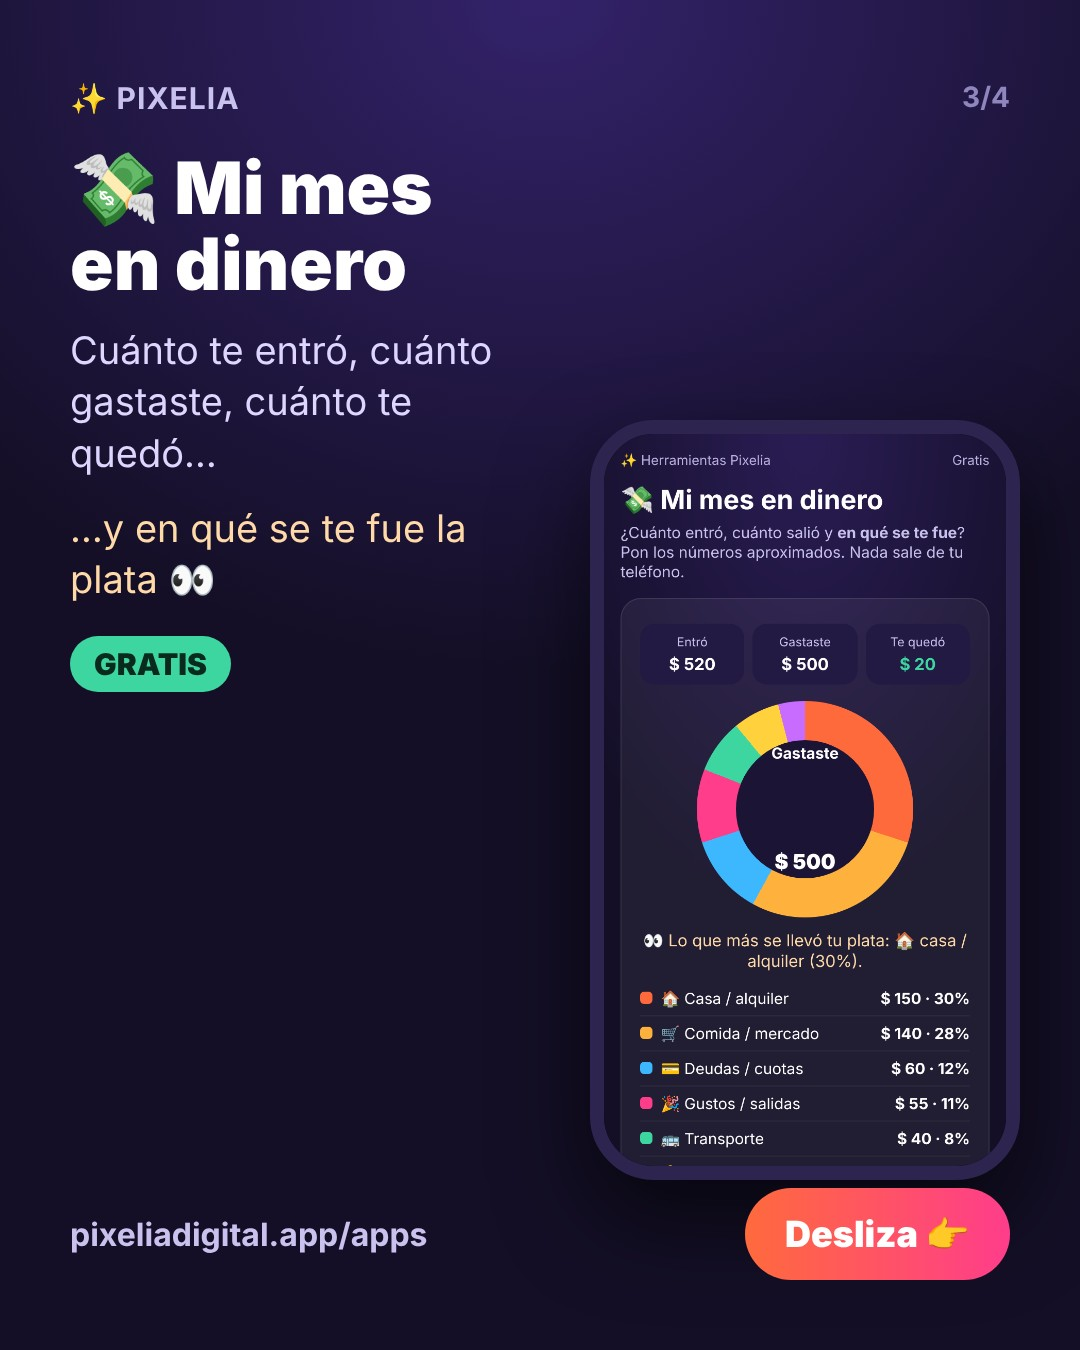
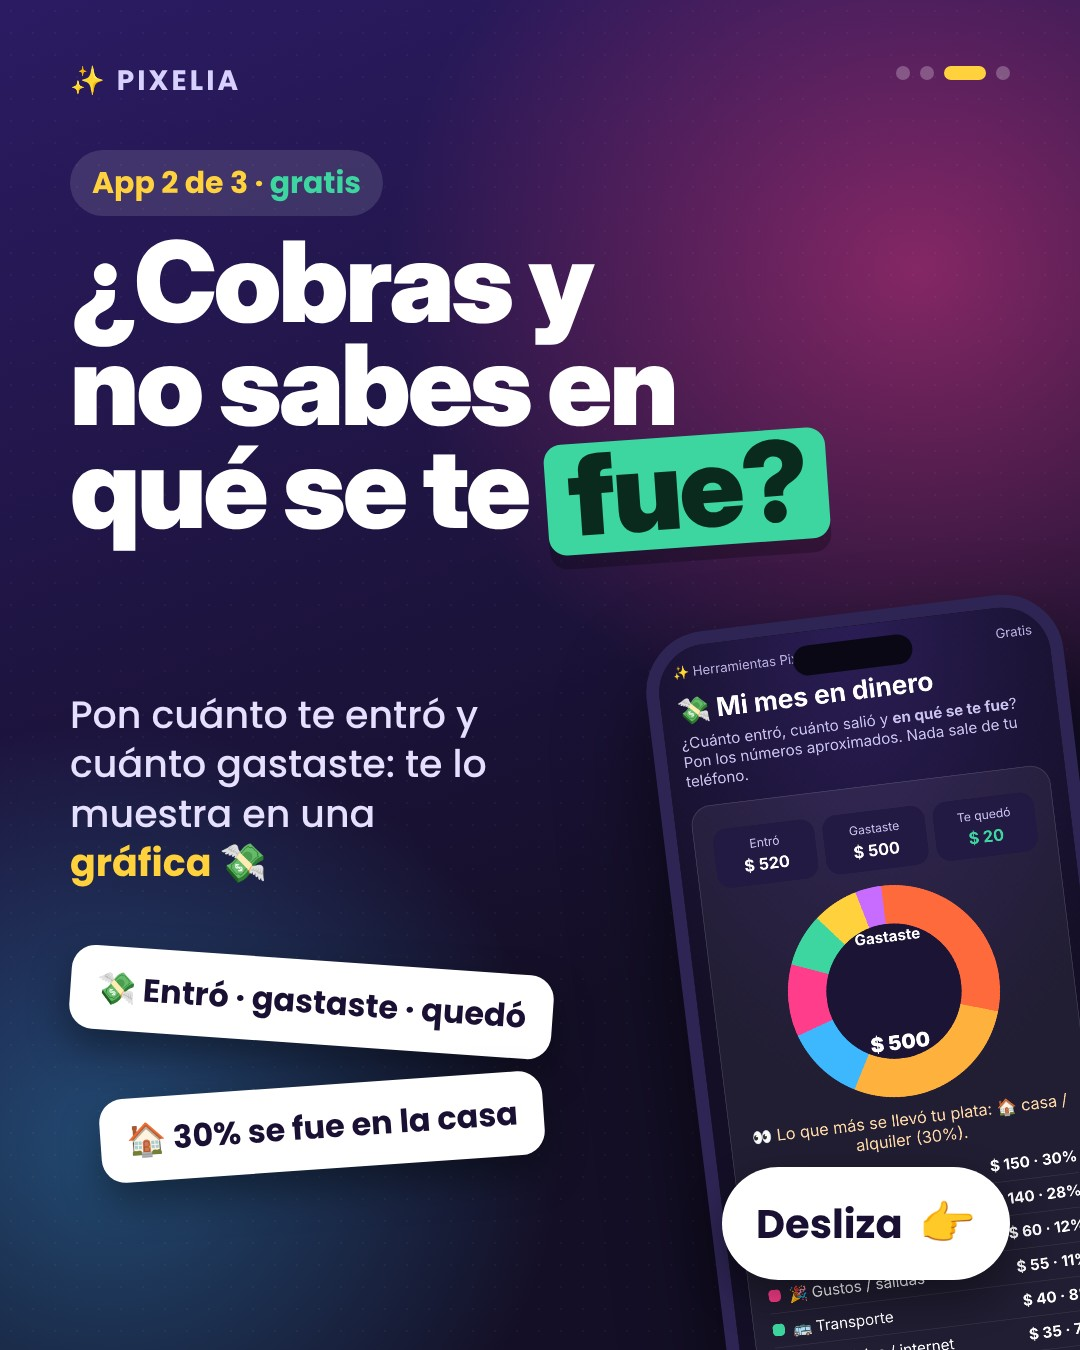
Carrusel v2 dinámico (portada sin nombres, teléfonos inclinados, etiquetas)
Claude-Session: https://claude.ai/code/session_01GXvD1qFKfigyGmicxfkwme

diff --git a/herramientas/apps/car.html b/herramientas/apps/car.html
@@ -1,57 +1,77 @@
 <!doctype html><html><head><meta charset="utf-8"><style>
-*{margin:0;box-sizing:border-box}body{font-family:'Inter',system-ui,sans-serif;background:#000}
-.s{width:1080px;height:1350px;position:relative;overflow:hidden;color:#fff;background:radial-gradient(120% 80% at 50% 0%,#33226a 0%,#140f26 62%);padding:80px 70px}
-.brand{font-size:30px;color:#c9c2ee;font-weight:700;letter-spacing:1px}
-.n{position:absolute;top:80px;right:70px;font-size:28px;color:#8f86bd;font-weight:700}
-h1{font-size:92px;line-height:1.02;font-weight:900;margin-top:40px}
-h2{font-size:72px;line-height:1.05;font-weight:900;margin-top:34px}
-.o{color:#ff7a4d}
-p.t{font-size:38px;line-height:1.35;color:#ddd6ff;margin-top:24px;max-width:900px}
-.tiles{display:flex;gap:30px;margin-top:70px}
-.tile{flex:1;background:rgba(255,255,255,.07);border:2px solid rgba(255,255,255,.12);border-radius:40px;padding:40px 20px;text-align:center}
-.tile .i{width:150px;height:150px;border-radius:42px;margin:0 auto 22px;display:grid;place-items:center;font-size:84px}
-.tile b{font-size:34px;line-height:1.15;display:block}
-.bot{position:absolute;left:70px;right:70px;bottom:70px;display:flex;justify-content:space-between;align-items:center}
-.pill{background:linear-gradient(90deg,#ff6a3d,#ff3d8b);border-radius:999px;padding:24px 40px;font-size:36px;font-weight:900}
-.url{font-size:32px;color:#c9c2ee;font-weight:700}
-.phone{position:absolute;right:60px;bottom:170px;width:430px;height:760px;border-radius:64px;background:#0b0816;border:14px solid #2d2450;box-shadow:0 40px 90px rgba(0,0,0,.6);overflow:hidden}
+@font-face{font-family:Poppins;font-weight:500;src:url(file:///home/claude/tienda/estudio/fonts/Poppins-Medium.ttf)}
+@font-face{font-family:Poppins;font-weight:600 900;src:url(file:///home/claude/tienda/estudio/fonts/Poppins-Bold.ttf)}
+
+*{margin:0;box-sizing:border-box}
+body{background:#000;font-family:'Inter Display','Inter',sans-serif}
+.s{width:1080px;height:1350px;position:relative;overflow:hidden;color:#fff;
+ background:radial-gradient(70% 50% at 85% 20%,rgba(255,61,139,.45),transparent 70%),radial-gradient(60% 45% at 10% 85%,rgba(61,184,255,.35),transparent 70%),linear-gradient(160deg,#2b1b63 0%,#140f26 70%)}
+.grain{position:absolute;inset:0;background-image:radial-gradient(rgba(255,255,255,.06) 1px,transparent 1px);background-size:22px 22px;opacity:.6}
+.brand{position:absolute;top:60px;left:70px;font:700 28px Poppins;letter-spacing:3px;color:#d8d0ff}
+.dots{position:absolute;top:66px;right:70px;display:flex;gap:10px}.dots i{width:14px;height:14px;border-radius:9px;background:rgba(255,255,255,.25)}.dots i.on{width:42px;background:#ffd23d}
+.h{position:absolute;left:70px;top:150px;font-weight:900;line-height:.92;letter-spacing:-3px}
+.mark{display:inline-block;background:#ffd23d;color:#1a1033;padding:0 22px 8px;border-radius:18px;transform:rotate(-4deg);box-shadow:0 14px 0 rgba(0,0,0,.25)}
+.mark.p{background:linear-gradient(90deg,#ff6a3d,#ff3d8b);color:#fff}
+.mark.g{background:#3dd6a0;color:#0b2a1e}
+.sub{position:absolute;left:70px;font:500 38px/1.3 Poppins;color:#e6e0ff}
+.phone{position:absolute;width:420px;height:860px;border-radius:62px;background:#0b0816;border:13px solid #2e2554;box-shadow:0 50px 90px rgba(0,0,0,.6),0 0 0 2px rgba(255,255,255,.08) inset;overflow:hidden}
 .phone img{width:100%;display:block}
-.txt{max-width:450px}
-.gratis{display:inline-block;background:#3dd6a0;color:#0b2a1e;font-weight:900;font-size:30px;padding:10px 24px;border-radius:999px;margin-top:30px}
+.phone::before{content:'';position:absolute;top:14px;left:50%;transform:translateX(-50%);width:120px;height:30px;border-radius:20px;background:#0b0816;z-index:2}
+.st{position:absolute;background:#fff;color:#1a1033;font:700 32px Poppins;padding:18px 26px;border-radius:24px;box-shadow:0 18px 40px rgba(0,0,0,.4);white-space:nowrap;z-index:5}
+.st small{display:block;font:500 22px Poppins;color:#6a5f99}
+.swipe{position:absolute;right:70px;bottom:70px;display:flex;align-items:center;gap:16px;font:800 40px Poppins;background:#fff;color:#1a1033;padding:22px 34px;border-radius:999px;box-shadow:0 18px 40px rgba(0,0,0,.4);z-index:6}
+.swipe b{font-size:46px;animation:none}
+.url{position:absolute;left:70px;bottom:88px;font:600 30px Poppins;color:#d8d0ff;z-index:6}
+.num{position:absolute;left:70px;top:150px;font:800 30px Poppins;background:rgba(255,255,255,.12);padding:10px 22px;border-radius:999px;color:#ffd23d}
+.free{display:inline-block;background:#3dd6a0;color:#0b2a1e;font:900 32px Poppins;padding:10px 26px;border-radius:999px;transform:rotate(-3deg)}
 </style></head><body>
-<div class="s" id="c1">
- <div class="brand">✨ PIXELIA</div><div class="n">1/4</div>
- <h1>3 mini apps que puedes usar <span class="o">GRATIS</span></h1>
- <p class="t">Sin registrarte, sin descargar nada. Las abres en tu teléfono y listo.</p>
- <div class="tiles">
-  <div class="tile"><div class="i" style="background:linear-gradient(135deg,#ff6a3d,#ff3d8b)">🔥</div><b>Mi Racha de 30 días</b></div>
-  <div class="tile"><div class="i" style="background:linear-gradient(135deg,#3dd6a0,#3db8ff)">💸</div><b>Mi mes en dinero</b></div>
-  <div class="tile"><div class="i" style="background:linear-gradient(135deg,#ffb13d,#ff6a3d)">💌</div><b>Tu invitación bonita</b></div>
- </div>
- <div class="bot"><div class="url">👇 Toca el enlace de abajo</div><div class="pill">Desliza 👉</div></div>
+
+<!-- 1. PORTADA: sin nombres, solo gancho + visual -->
+<div class="s" id="c1"><div class="grain"></div>
+ <div class="brand">✨ PIXELIA</div><div class="dots"><i class="on"></i><i></i><i></i><i></i></div>
+ <div class="h" style="font-size:150px">3 mini apps<br><span style="font-size:96px;letter-spacing:-2px">que puedes usar</span><br><span class="mark" style="font-size:150px;margin-top:18px">GRATIS</span></div>
+ <div class="phone" style="left:40px;top:780px;transform:rotate(-14deg);width:360px;height:740px"><img src="s-dinero.png"></div>
+ <div class="phone" style="left:360px;top:690px;transform:rotate(-2deg);z-index:3"><img src="s-racha.png"></div>
+ <div class="phone" style="left:800px;top:760px;transform:rotate(12deg);width:380px;height:780px"><img src="s-inv.png"></div>
+ <div class="st" style="left:600px;top:600px;transform:rotate(6deg)">🔥 9 días seguidos</div>
+ <div class="st" style="left:60px;top:690px;transform:rotate(-7deg)">👀 ¿En qué se me fue?</div>
+ <div class="swipe">Desliza <b>👉</b></div>
 </div>
-<div class="s" id="c2">
- <div class="brand">✨ PIXELIA</div><div class="n">2/4</div>
- <div class="txt"><h2>🔥 Mi Racha de 30 días</h2>
- <p class="t">Elige tus hábitos: agua, caminar, leer, dormir… Márcalos cada día y mira crecer tu racha 🔥</p>
- <p class="t" style="color:#ffd9a8">A los 30 días: tu resultado y qué mejorar 📊</p><div class="gratis">GRATIS</div></div>
- <div class="phone"><img src="s-racha.png"></div>
- <div class="bot"><div class="url">pixeliadigital.app/apps</div><div class="pill">Desliza 👉</div></div>
+
+<!-- 2. Racha -->
+<div class="s" id="c2"><div class="grain"></div>
+ <div class="brand">✨ PIXELIA</div><div class="dots"><i></i><i class="on"></i><i></i><i></i></div>
+ <div class="num">App 1 de 3 · <span style="color:#3dd6a0">gratis</span></div>
+ <div class="h" style="top:230px;font-size:112px">¿Siempre<br>abandonas<br>tus <span class="mark p">metas?</span></div>
+ <div class="sub" style="top:690px;width:430px">Elige tus hábitos, márcalos cada día y no rompas tu <b style="color:#ffd23d">racha 🔥</b></div>
+ <div class="phone" style="right:-30px;top:610px;transform:rotate(8deg)"><img src="s-racha.png"></div>
+ <div class="st" style="left:70px;top:960px;transform:rotate(-5deg)">✅ Varios hábitos a la vez</div>
+ <div class="st" style="left:110px;top:1085px;transform:rotate(3deg)">📊 Tu resultado a los 30 días</div>
+ <div class="swipe">Desliza <b>👉</b></div>
 </div>
-<div class="s" id="c3">
- <div class="brand">✨ PIXELIA</div><div class="n">3/4</div>
- <div class="txt"><h2>💸 Mi mes en dinero</h2>
- <p class="t">Cuánto te entró, cuánto gastaste, cuánto te quedó…</p>
- <p class="t" style="color:#ffd9a8">…y en qué se te fue la plata 👀</p><div class="gratis">GRATIS</div></div>
- <div class="phone"><img src="s-dinero.png"></div>
- <div class="bot"><div class="url">pixeliadigital.app/apps</div><div class="pill">Desliza 👉</div></div>
+
+<!-- 3. Dinero -->
+<div class="s" id="c3"><div class="grain"></div>
+ <div class="brand">✨ PIXELIA</div><div class="dots"><i></i><i></i><i class="on"></i><i></i></div>
+ <div class="num">App 2 de 3 · <span style="color:#3dd6a0">gratis</span></div>
+ <div class="h" style="top:230px;font-size:112px">¿Cobras y<br>no sabes en<br>qué se te <span class="mark g">fue?</span></div>
+ <div class="sub" style="top:690px;width:430px">Pon cuánto te entró y cuánto gastaste: te lo muestra en una <b style="color:#ffd23d">gráfica 💸</b></div>
+ <div class="phone" style="right:-30px;top:610px;transform:rotate(-7deg)"><img src="s-dinero.png"></div>
+ <div class="st" style="left:70px;top:960px;transform:rotate(4deg)">💸 Entró · gastaste · quedó</div>
+ <div class="st" style="left:100px;top:1085px;transform:rotate(-4deg)">🏠 30% se fue en la casa</div>
+ <div class="swipe">Desliza <b>👉</b></div>
 </div>
-<div class="s" id="c4">
- <div class="brand">✨ PIXELIA</div><div class="n">4/4</div>
- <div class="txt"><h2>💌 Tu invitación bonita</h2>
- <p class="t">¿Asado, cumple o reunión? Crea una invitación bonita en 1 minuto…</p>
- <p class="t" style="color:#ffd9a8">…y mándala por WhatsApp a tus 15 o 20 invitados 🎉</p><div class="gratis">GRATIS</div></div>
- <div class="phone"><img src="s-inv.png"></div>
- <div class="bot"><div class="url">pixeliadigital.app/apps</div><div class="pill">Úsalas gratis 👇</div></div>
+
+<!-- 4. Invitación -->
+<div class="s" id="c4"><div class="grain"></div>
+ <div class="brand">✨ PIXELIA</div><div class="dots"><i></i><i></i><i></i><i class="on"></i></div>
+ <div class="num">App 3 de 3 · <span style="color:#3dd6a0">gratis</span></div>
+ <div class="h" style="top:230px;font-size:112px">¿Asado,<br>cumple o<br><span class="mark">reunión?</span></div>
+ <div class="sub" style="top:690px;width:430px">Crea una invitación bonita en 1 minuto y mándala por <b style="color:#3dd6a0">WhatsApp 💬</b></div>
+ <div class="phone" style="right:-30px;top:610px;transform:rotate(7deg)"><img src="s-inv.png"></div>
+ <div class="st" style="left:70px;top:960px;transform:rotate(-4deg)">💌 Para tus 15 o 20 invitados</div>
+ <div class="st" style="left:100px;top:1085px;transform:rotate(3deg)">📍 Con mapa y calendario</div>
+ <div class="url">Las 3 en: <b style="color:#fff">pixeliadigital.app/apps</b></div>
+ <div class="swipe" style="background:#ffd23d">Úsalas gratis <b>👇</b></div>
 </div>
 </body></html>

diff --git a/CLAUDE.md b/CLAUDE.md
@@ -229,5 +229,5 @@
   ↳ (12-nov) Diego: carritos "medio feos" y sin probar → EN PAUSA. Muñeca: quiere estilo ANIME/chibi PROPIO y bonito; mi dibujo SVG no llega a ese nivel → arte con GEMINI (Diego genera en el mismo chat, prompts en herramientas/munecas/prompts-gemini.md: muñeca base calva de frente, luego cada ropa/peinado "en la muñeca" y después "solo la prenda, misma posición" para que calce) y yo recorto, alineo, armo el juego web + hojas imprimibles + nombre. Pestañas: alternativa "ropa encima" (mismo contorno, pega removible/doble faz) o versión stickers. Producto = juego para vestir en la web primero, imprimible como bono (muchos no tienen impresora).
 - 🤖 (12-nov) Pago Móvil automático v2 con UBII (Diego recibe en Ubii, avisa al instante; formato "Has recibido Bs. 500.00 por pago móvil del número 0424-910.15.89 con referencia 007988808951"): leerAviso() en server.js entiende punto o coma decimal, teléfono con guiones/puntos y "referencia"/"Ref". Avisos guardados en tabla pagomovil_avisos (no repite si MacroDroid dispara 2 veces). Entrega SOLO si coinciden referencia Y monto (Diego 12-nov), por la referencia que escribió el cliente (en el aviso o al enviar la referencia después) con monto ≥ lo pedido → pagado + entregado. Precio en Bs = USD × BCV redondeado HACIA ARRIBA a la decena + céntimos únicos. Precio de productos solo-Venezuela: $4 (Diego 12-nov).
 - 🧰 (12-nov) IDEA APROBADA "Herramientas gratis de Pixelia" (Diego): 5 mini apps en /apps + carrusel (portada + 1 lámina por app), identidad común. (1) RACHA 30 DÍAS ✅ HECHA (public/racha.html en /racha; datos en el teléfono; eventos w:racha empezo/dia1..30/pidio/correo; píxel EmpezoRacha, RachaDia1/3/7/30, Lead; correo vía /api/regalo regalos:[racha]): al 3er día ventanita "¿Te está sirviendo? deja tu correo" → suscriptores = público para LOOKALIKE (gente que USÓ algo nuestro). (2) MI MES EN DINERO: ingresé/gasté/ahorré + en qué se fue (gráfica por categoría) → lleva a Plan 2027. (3) INVITACIONES: GRATIS = solo una invitación personalizada (sin extras, con "Hecha con Pixelia"); PLUS de pago con MUCHO más: quién lleva/trae qué, confirmar asistencia, dividir gastos, y todas las celebraciones (cumpleaños, bodas, 15 años, baby shower, asados/parrillas, reuniones) todo personalizado; se une a la idea de la INVITACIÓN QUE SE JUEGA. (4) ¿CUÁNTO COBRO? → La Jefa. (5) CUENTA REGRESIVA con imagen para estado → invitación. Gratis = datos en el teléfono; la invitación necesita servidor (la ven los invitados).
-- 🧰 (12-nov) HECHAS las 3 HERRAMIENTAS GRATIS (Diego eligió 3, no 5: se quitaron ¿Cuánto cobro? y Cuenta regresiva): /apps (public/apps.html), /racha (VARIOS hábitos, marcar cuáles hice hoy, racha por hábito, calendario de 30 días coloreado, "Ver cómo voy" y RESULTADO del mes al día 30 con % por hábito + consejos: mejor/peor, truco de encadenar, no fallar 2 seguidos), /dinero (mes, moneda por zona horaria, ingreso + 9 categorías → entró/gastó/quedó + dona por categoría + frase + historial de meses → CTA /plan), /invitacion (8 tipos: asado, cumple, reunión, baby, 15, boda, grado, fiesta; vista previa en vivo; POST /api/invitacion → tabla invitaciones → enlace /i/<id> con calendario y mapa + "Crea la tuya gratis"; botón WhatsApp; aviso "Muy pronto: Invitación Plus"). Compartido: public/css/apps.css + public/js/apps.js (PX: medición w:<app>, píxel AbrioApp/UsoApp/CorreoApp con interes = habitos-planners | finanzas | interactivo-whatsapp → PÚBLICOS POR INTERÉS; ventanita "¿Te gustó la app?" tras el PRIMER uso con comentario opcional + correo → /api/regalo regalos:[app] (+ comentario → tabla app_comentarios + aviso a Telegram) + Lead). CARRUSEL 4 láminas public/img/apps/c1..c4.jpg (fuente herramientas/apps/car.html + capturas s-*.png). herramientas/apps/campana.mjs [--publicar] [--usd 3] [--activar] [--sin-campana]: --publicar = carrusel orgánico en IG; campaña = anuncio CARRUSEL (cada tarjeta a su app), tráfico, público ABIERTO 18-55, 17 países latinos, IG feed/historias/explorar + FB feed/historias, $3/día.
+- 🧰 (12-nov) HECHAS las 3 HERRAMIENTAS GRATIS (Diego eligió 3, no 5: se quitaron ¿Cuánto cobro? y Cuenta regresiva): /apps (public/apps.html), /racha (VARIOS hábitos, marcar cuáles hice hoy, racha por hábito, calendario de 30 días coloreado, "Ver cómo voy" y RESULTADO del mes al día 30 con % por hábito + consejos: mejor/peor, truco de encadenar, no fallar 2 seguidos), /dinero (mes, moneda por zona horaria, ingreso + 9 categorías → entró/gastó/quedó + dona por categoría + frase + historial de meses → CTA /plan), /invitacion (8 tipos: asado, cumple, reunión, baby, 15, boda, grado, fiesta; vista previa en vivo; POST /api/invitacion → tabla invitaciones → enlace /i/<id> con calendario y mapa + "Crea la tuya gratis"; botón WhatsApp; aviso "Muy pronto: Invitación Plus"). Compartido: public/css/apps.css + public/js/apps.js (PX: medición w:<app>, píxel AbrioApp/UsoApp/CorreoApp con interes = habitos-planners | finanzas | interactivo-whatsapp → PÚBLICOS POR INTERÉS; ventanita "¿Te gustó la app?" tras el PRIMER uso con comentario opcional + correo → /api/regalo regalos:[app] (+ comentario → tabla app_comentarios + aviso a Telegram) + Lead). CARRUSEL 4 láminas public/img/apps/c1..c4.jpg (fuente herramientas/apps/car.html (v2 dinámica: portada SIN nombres de apps, teléfonos inclinados que se salen del borde, etiquetas flotantes, palabra resaltada, "Desliza 👉"; letras Inter Display + Poppins) + capturas s-*.png). herramientas/apps/campana.mjs [--publicar] [--usd 3] [--activar] [--sin-campana]: --publicar = carrusel orgánico en IG; campaña = anuncio CARRUSEL (cada tarjeta a su app), tráfico, público ABIERTO 18-55, 17 países latinos, IG feed/historias/explorar + FB feed/historias, $3/día.
 - 🪆 (12-nov) Muñecas para DESPUÉS de las 12 (Diego): versión gratis con ~10 vestidos y PLUS con ~200 + accesorios recortables, que se vea bien. Método que funcionó: plantilla de 4 copias (herramientas/munecas/plantilla_4_munecas.png) editada en Gemini ("Edit this image…") → piezas alineadas; o 1 pieza por chat nuevo con la base adjunta. Para imprimir: cada pieza SUELTA (no encimar), sin piel en la ropa, cara vacía en peinados, pestañas opcionales.
